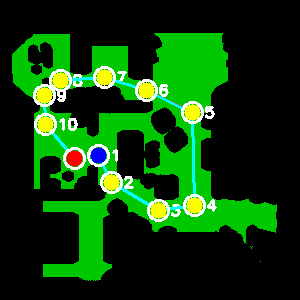
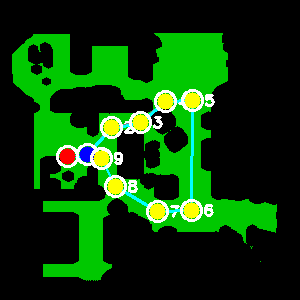
edit README

Changed region(s): [[0.09, 0.21, 0.72, 0.75]]

diff --git a/README.md b/README.md
@@ -104,7 +104,7 @@
             2. motor_control (autonomous) - when joystick is switched off
 
 ## Interactive Goal Selector
-* The convenience function, **interactive_goal selector.py** is a *front-end* for path_planner.py that makes it easy to pick valid start/goal points by clicking on a map. Run it with `uv run interactive_goal_selector.py`
+* The convenience function, **interactive_goal_selector.py** is a *front-end* for path_planner.py that makes it easy to pick valid start/goal points by clicking on a map. Run it with `uv run interactive_goal_selector.py`
 * Here's how it works:
     1. Window opens showing your map (green = safe, black = obstacles)
     2. Click on green area → Sets start point (blue circle)
@@ -116,22 +116,21 @@
 * The A* path has jagged, stair-step shape because it moves cell-by-cell on a grid. Smooothing removes unneccesary waypoints and draws straight lines where possible.
 * Add smoothing to *path_planner.py*
 
-### Alright, already! Let's run this. Here are the steps.
+### Alright, already! Let's run this. Here are the steps in driving a trip.
 
-0. Plan a trip with the interactive planner.
 1. Park the robot in its Home position and turn it on.
 2. Start the odometer service on the robot
-4. Start the motor service on the robot.
-5. Run path follower on the laptop.
+3. Start the motor service on the robot.
+4. Run path follower on the laptop: `uv run path_follower.py`
 
 ## Interactive Waypoint Selector
 
 * When the robot drives along the path from start to finish, the A* algorithm hugs along any obstacles along the way. If you were driving a car through a narrow alley or tight spot, wouldn't you prefer a path half way between obstacles on the right and those on the left?
-* The *interactive wp_selector.py* program makes it possible to do this. It also addresses a couple of other issues as well.
-    * The map is much larger (with a size that is easy to set).
+* The **interactive_wp_selector.py** program makes it possible to do this. It also addresses a couple of other issues as well.
+    * The map display is much larger (with a size that is easy to set).
     * The path is no longer limited to just 2 points (start and goal), but can be defined by an unlimited number of points.
 * Here's how it works:
     1. Click a first point 
-    2. click a series of additional points defining the desired path
-    3. After specifying the final point, press 'F' to mark the last clicked point as the final waypoint and plan path.
+    2. click a sequence of additional points defining the desired path
+    3. After specifying the final point, press 'F' to mark the last clicked point as the final waypoint. The planned path is stored in *planned_path.json*.
 